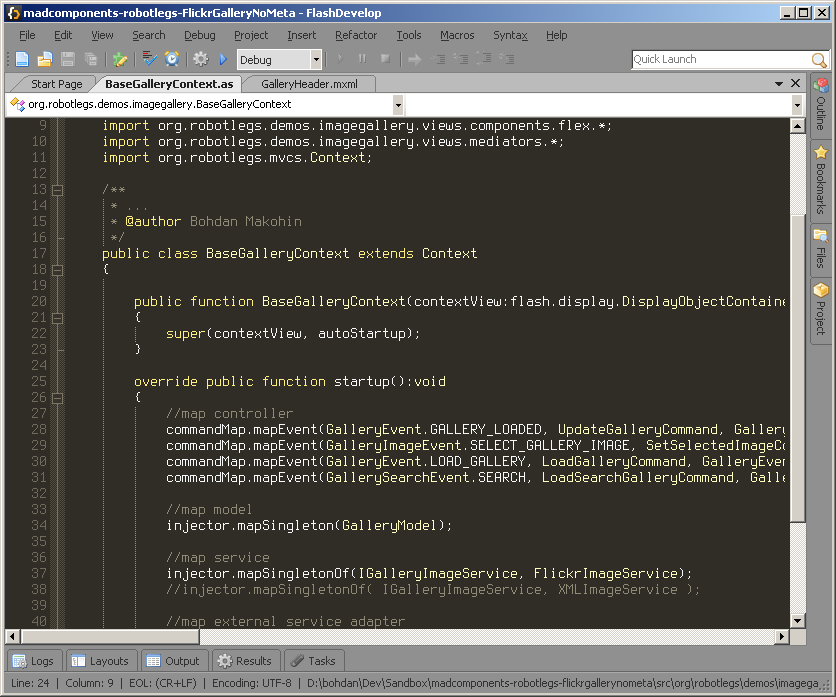
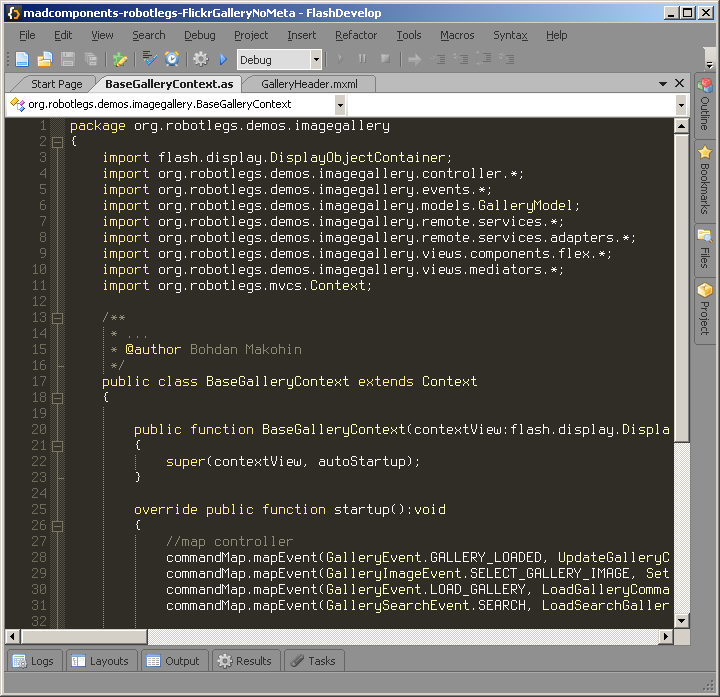
Fixed width of screenshots

Changed region(s): [[0.0, 0.0, 1.0, 0.9943], [0.7333, 0.2712, 0.7944, 0.3013]]

diff --git a/README.md b/README.md
@@ -1,7 +1,7 @@
 # Customizations for FlashDevelop 4.3+
 
 ## Contents
-* Color theme (UI and syntax) "AssassinGray" (based on SinGray built-in theme). Requires "Terminus" (available at http://terminus-font.sourceforge.net/) font to be installed.
+* Color theme (UI and syntax) "AssassinGray" (based on SinGray built-in theme). Requires "Terminus" font to be installed (available at http://terminus-font.sourceforge.net/).
 
 ![AS3 code](screenshots/as3_code.png)
 
